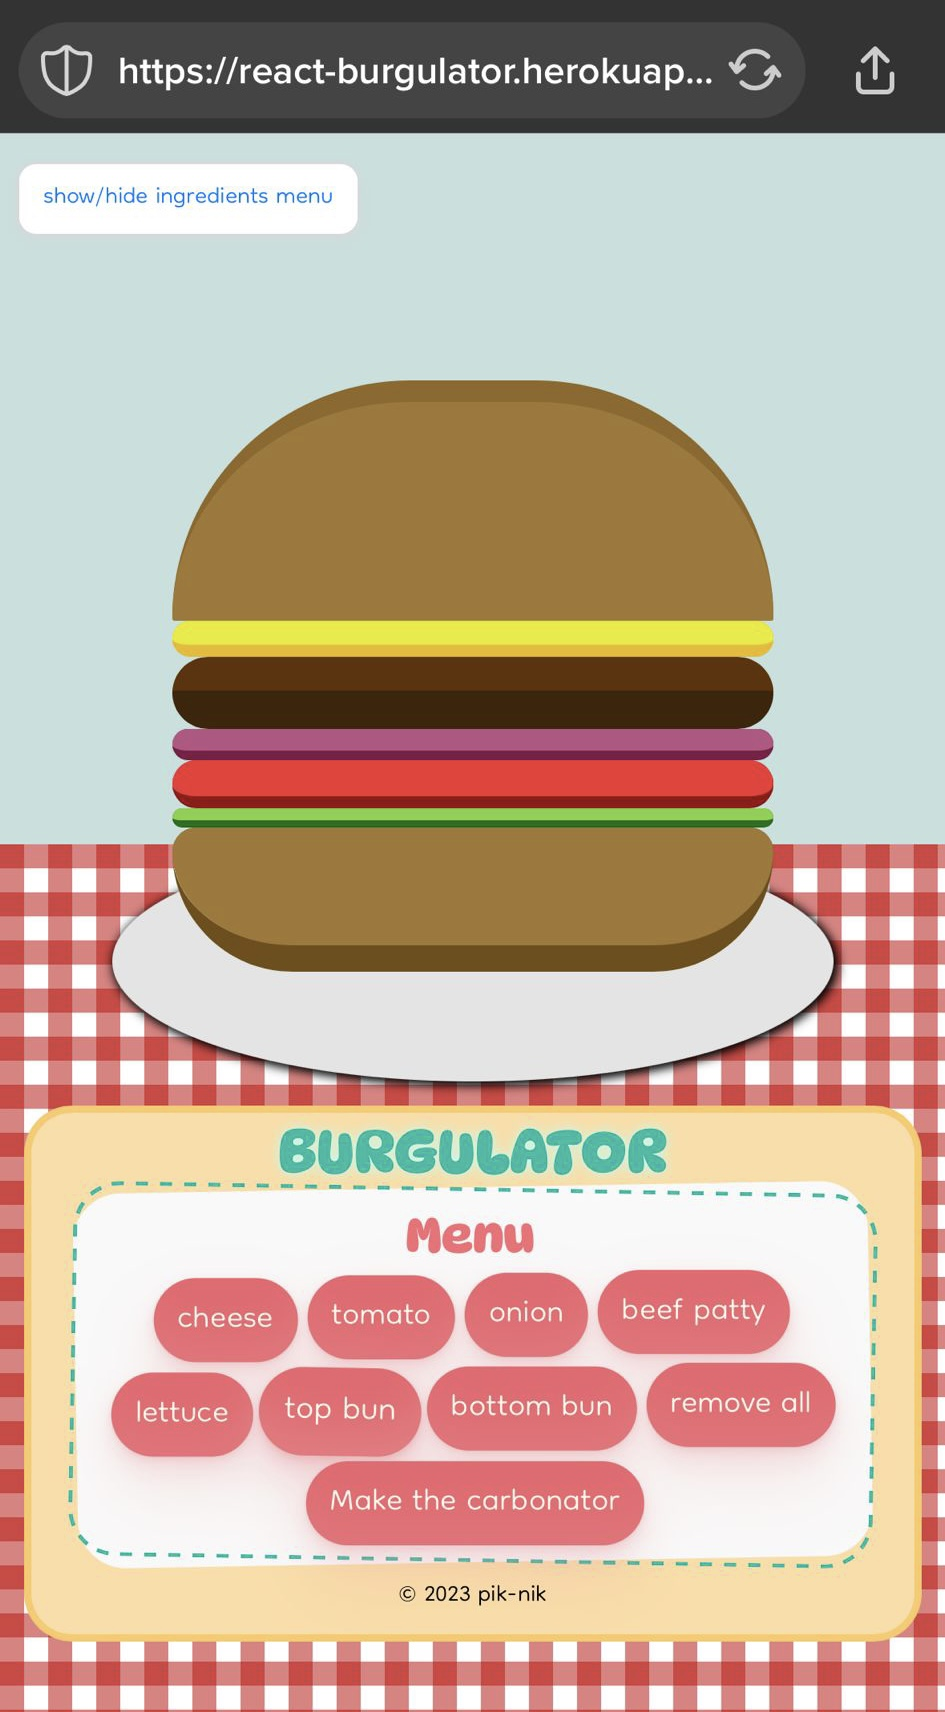
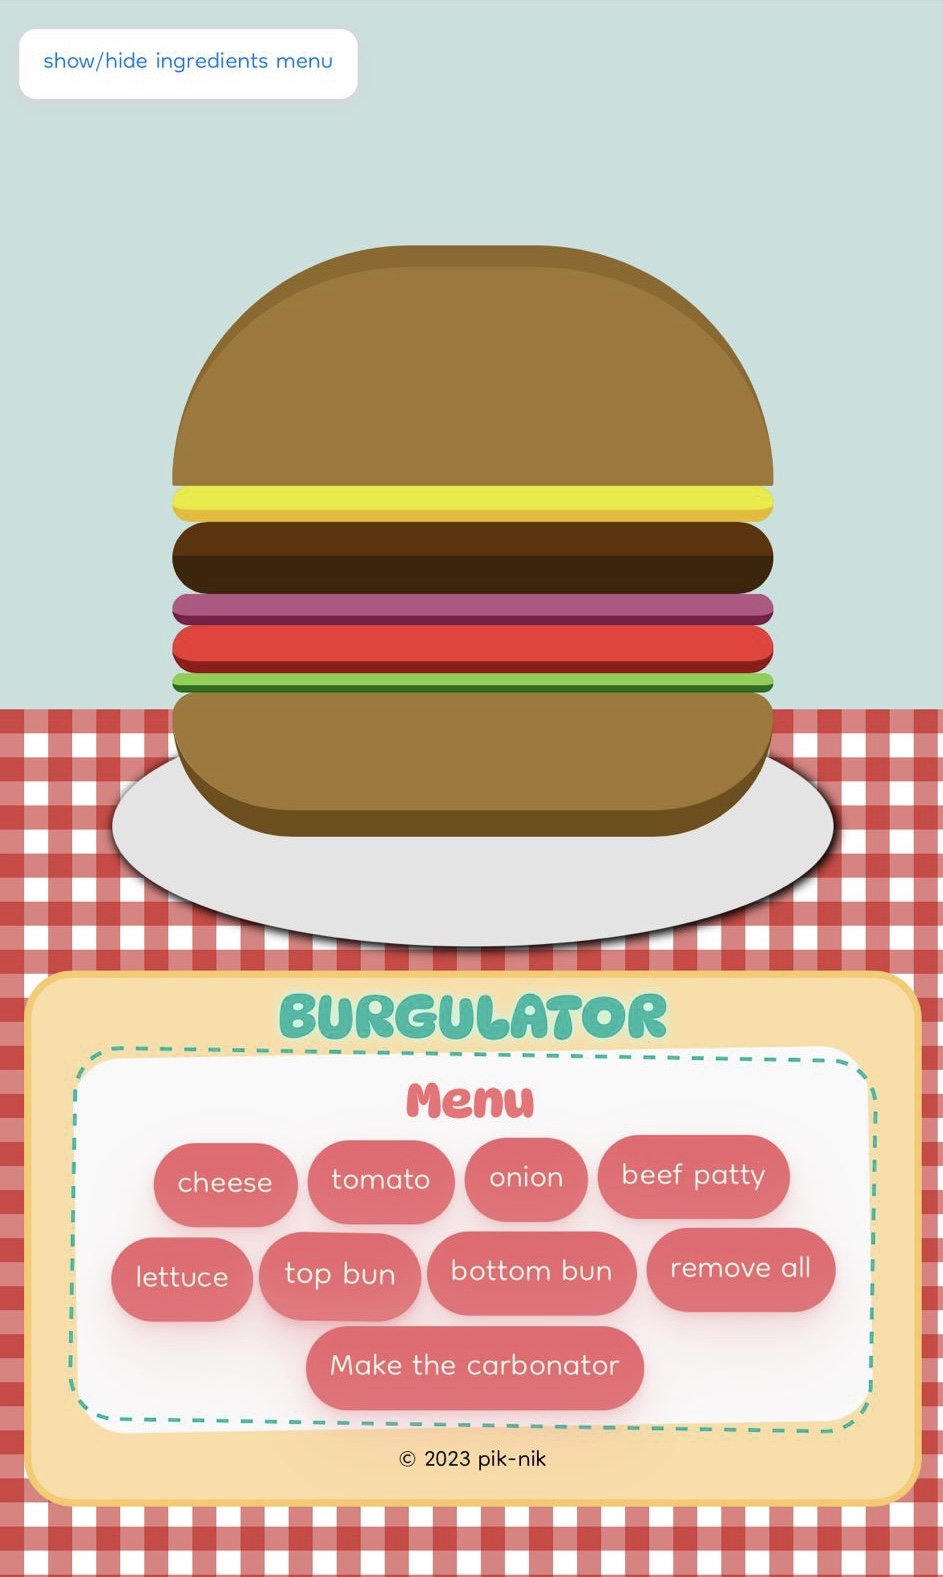
used context, moved to components and updated readme

diff --git a/src/App.js b/src/App.js
@@ -1,58 +1,11 @@
 import "./App.css"
 import React, { useState } from "react"
-import Menu from "./Menu"
-import Burger from "./Burger.jsx"
+import Menu from "./components/Menu"
+import Burger from "./components/Burger.jsx"
+import CheesyLabel from "./components/CheesyLabel"
 
 function App() {
-    const [burger, setBurger] = useState([
-        // "top-bun",
-        // "lettuce",
-        // "tomato",
-        // "onion",
-        // "cheese",
-        // "beef-patty",
-        // "bottom-bun",
-    ])
     const [showMenu, setShowMenu] = useState(true)
-
-    const add = ing => {
-        setBurger([ing, ...burger])
-    }
-
-    const remove = idxTarget => {
-        setBurger(burger.filter((ing, idx) => idx !== idxTarget))
-    }
-
-    const removeAll = () => {
-        setBurger([])
-    }
-
-    const cheeseCount = burger.filter(ing => ing === "cheese").length
-
-    const cheesyLabel =
-        cheeseCount <= 1
-            ? ""
-            : cheeseCount === 2
-            ? "double cheese"
-            : cheeseCount === 3
-            ? "triple cheese"
-            : cheeseCount === 4
-            ? "quadruple cheese"
-            : cheeseCount === 5
-            ? "quintuple cheese"
-            : "maximum cheese"
-
-    const makeCarbonator = () => {
-        setBurger([
-            "top-bun",
-            "bottom-bun",
-            "bottom-bun",
-            "bottom-bun",
-            "bottom-bun",
-            "bottom-bun",
-            "bottom-bun",
-        ])
-    }
 
     const toggleMenu = () => {
         setShowMenu(!showMenu)
@@ -65,17 +18,11 @@ function App() {
                     <button className="toggle-menu-btn" onClick={toggleMenu}>
                         show/hide ingredients menu
                     </button>
-                    <Burger burger={burger} onRemove={remove} />
+                    <Burger />
                     <div className="plate"></div>
-                    <div className="cheese-label">{cheesyLabel}</div>
+                    <CheesyLabel />
                 </section>
-                <Menu
-                    name="BURGULATOR"
-                    onAdd={add}
-                    showMenu={showMenu}
-                    removeAll={removeAll}
-                    makeCarbonator={makeCarbonator}
-                />
+                <Menu showMenu={showMenu} />
             </div>
             <div className="table-cloth"></div>
         </div>
@@ -83,3 +30,5 @@ function App() {
 }
 
 export default App
+
+//  move cheesy label to component

diff --git a/src/components/Menu.js b/src/components/Menu.js
@@ -1,0 +1,24 @@
+import { BurgerContext } from "../burgerContext"
+import { useContext } from "react"
+export default function Menu(props) {
+    const { add, removeAll, makeCarbonator } = useContext(BurgerContext)
+
+    return (
+        <section className={props.showMenu ? "menu" : "menu hide-menu"}>
+            <h1>BURGULATOR</h1>
+            <div className="menu-buttons">
+                <h2>Menu</h2>
+                <button onClick={() => add("cheese")}>cheese</button>
+                <button onClick={() => add("tomato")}>tomato</button>
+                <button onClick={() => add("onion")}>onion</button>
+                <button onClick={() => add("beef-patty")}>beef patty</button>
+                <button onClick={() => add("lettuce")}>lettuce</button>
+                <button onClick={() => add("top-bun")}>top bun</button>
+                <button onClick={() => add("bottom-bun")}>bottom bun</button>
+                <button onClick={removeAll}>remove all</button>
+                <button onClick={makeCarbonator}>Make the carbonator</button>
+            </div>
+            <p className="copyright">&copy; 2023 pik-nik</p>
+        </section>
+    )
+}

diff --git a/src/burgerContext.js b/src/burgerContext.js
@@ -1,0 +1,47 @@
+import { useState, createContext } from "react"
+
+export const BurgerContext = createContext()
+
+export function BurgerProvider(props) {
+    const [burger, setBurger] = useState([
+        // "top-bun",
+        // "lettuce",
+        // "tomato",
+        // "onion",
+        // "cheese",
+        // "beef-patty",
+        // "bottom-bun",
+    ])
+
+    const add = ing => {
+        setBurger([ing, ...burger])
+    }
+
+    const remove = idxTarget => {
+        setBurger(burger.filter((ing, idx) => idx !== idxTarget))
+    }
+
+    const removeAll = () => {
+        setBurger([])
+    }
+
+    const makeCarbonator = () => {
+        setBurger([
+            "top-bun",
+            "bottom-bun",
+            "bottom-bun",
+            "bottom-bun",
+            "bottom-bun",
+            "bottom-bun",
+            "bottom-bun",
+        ])
+    }
+
+    const value = { burger, add, remove, removeAll, makeCarbonator }
+
+    return (
+        <BurgerContext.Provider value={value}>
+            {props.children}
+        </BurgerContext.Provider>
+    )
+}

diff --git a/src/components/CheesyLabel.jsx b/src/components/CheesyLabel.jsx
@@ -1,0 +1,22 @@
+import { useContext } from "react"
+import { BurgerContext } from "../burgerContext"
+export default function CheesyLabel() {
+    const { burger } = useContext(BurgerContext)
+
+    const cheeseCount = burger.filter(ing => ing === "cheese").length
+
+    const cheesyLabel =
+        cheeseCount <= 1
+            ? ""
+            : cheeseCount === 2
+            ? "double cheese"
+            : cheeseCount === 3
+            ? "triple cheese"
+            : cheeseCount === 4
+            ? "quadruple cheese"
+            : cheeseCount === 5
+            ? "quintuple cheese"
+            : "maximum cheese"
+
+    return <div className="cheese-label">{cheesyLabel}</div>
+}

diff --git a/src/components/Burger.jsx b/src/components/Burger.jsx
@@ -1,6 +1,10 @@
+import { useContext } from "react"
 import Ingredient from "./Ingredient.jsx"
+import { BurgerContext } from "../burgerContext.js"
 
-export default function Burger({ burger, onRemove: remove }) {
+export default function Burger() {
+    const { burger, remove } = useContext(BurgerContext)
+
     return (
         <div className="burger">
             {burger.map((ing, idx) => (

diff --git a/src/index.js b/src/index.js
@@ -2,6 +2,11 @@ import React from "react"
 import ReactDOM from "react-dom/client"
 import "./index.css"
 import App from "./App"
+import { BurgerProvider } from "./burgerContext"
 
 const root = ReactDOM.createRoot(document.getElementById("root"))
-root.render(<App />)
+root.render(
+    <BurgerProvider>
+        <App />
+    </BurgerProvider>
+)

diff --git a/README.md b/README.md
@@ -2,9 +2,11 @@
 
 Getting Hungry? Design your own artisan burger. :yum:
 
-[Check it out here](https://react-burgulator.herokuapp.com/)
+[Check it out here](https://pik-nik-burgulator.netlify.app/)
 
 Made with React
+
+To be honest, making this app got me so hungry I went out and got a burger for dinner.
 
 ## How to use
 
